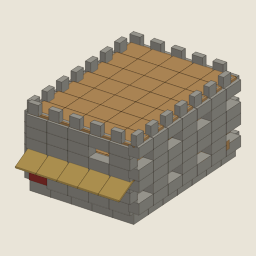
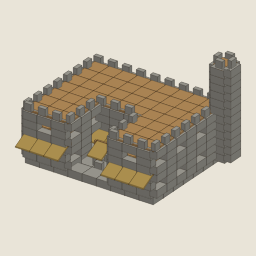
Blueprint lab: desert courtyards with a paved yard and a well, a tall stone tower on large desert buildings; review set rebuilt

Changed region(s): [[0.0625, 0.125, 0.9688, 0.875]]

diff --git a/tools/blueprint-lab/web/index.html b/tools/blueprint-lab/web/index.html
@@ -1227,7 +1227,7 @@ class Build {
   put(name, x, y, z, yaw = 0, extra) {
     if (!name) return;
     yaw = norm(yaw);
-    const key = `${name}|${x.toFixed(2)}|${y.toFixed(2)}|${z.toFixed(2)}|${Math.round(yaw) % 360}`;
+    const key = `${name}|${Math.round(x * 100)}|${Math.round(y * 100)}|${Math.round(z * 100)}|${Math.round(yaw) % 360}`; // rounded so -0.00 and 0.00 match
     if (this.keys.has(key)) return; // the same piece in the same place once only (porch eaves, meeting wings)
     this.keys.add(key);
     this.pieces.push({ name, x: +x.toFixed(3), y: +y.toFixed(3), z: +z.toFixed(3), q: quat(yaw), yaw, ...(extra || {}) });
@@ -1317,9 +1317,13 @@ function wingsFor(plan, W, D, R) {
       return [main, { cx: mid, cz: out / 2, W: D + out / 2, D: wD, alpha: 270 }];
     case 'cross':
       return [main, { cx: mid, cz: 0, W: D + out, D: wD, alpha: 270 }];
-    case 'U':
-      return [main, { cx: -(W - wD), cz: -out / 2 - 1, W: D + out / 2 + 1, D: wD, alpha: 270 },
-        { cx: W - wD, cz: -out / 2 - 1, W: D + out / 2 + 1, D: wD, alpha: 270 }];
+    case 'U': {
+      // wings at both ends with a yard of at least 4 m between them (the main wing is widened when it is too short)
+      const uD = Math.min(wD, 3), Wu = Math.max(W, 2 * uD + 3);
+      main.W = Wu;
+      return [main, { cx: -(Wu - uD), cz: -out / 2 - 1, W: D + out / 2 + 1, D: uD, alpha: 270 },
+        { cx: Wu - uD, cz: -out / 2 - 1, W: D + out / 2 + 1, D: uD, alpha: 270 }];
+    }
     default:
       return [main];
   }
@@ -1404,7 +1408,7 @@ function generate(req) {
   if (bz % 2 === 0 && roofKind !== 'flat') bz += 1; // a ridge over a bay centre
   if (plan === 'square') bx = bz = Math.max(bx, bz) % 2 ? Math.max(bx, bz) : Math.max(bx, bz) + 1;
   if (roofKind === 'hip' && bx < bz) bx = bz;
-  const W = bx, D = bz;
+  let W = bx; const D = bz;
   const storeys = T.storeys[stage];
   const SH = T.low ? 2 : T.tower ? 3 : (['longhouse', 'tavern', 'temple'].includes(type) || stage === 's3') ? 3 : 2;
   const flat = roofKind === 'flat';
@@ -1421,6 +1425,7 @@ function generate(req) {
     octagonDesign(b, K, C, { W: Math.max(3, Math.round((W + D) / 2)), F, SH, storeys, r, T, biome, stoneBase });
   } else {
     const wings = wingsFor(plan, W, D, R);
+    W = wings[0].W; // a U plan may widen the main wing
     const cells = cellsOf(wings);
     const edges = edgesOf(cells);
     const verts = vertsOf(edges);
@@ -1512,7 +1517,7 @@ function generate(req) {
       // where wings cross, keep the higher roof so the lower roof runs into the higher one
       const placed = new Set();
       for (const p of parts) {
-        const key = `${p.name}|${p.x.toFixed(2)}|${p.y.toFixed(2)}|${p.z.toFixed(2)}|${Math.round(p.yaw)}`;
+        const key = `${p.name}|${Math.round(p.x * 100)}|${Math.round(p.y * 100)}|${Math.round(p.z * 100)}|${Math.round(p.yaw) % 360}`;
         if (placed.has(key)) continue; // two wings can lay the same piece where they meet
         placed.add(key);
         const hidden = wings.some(o => o !== p.wing && inside(o, p.x, p.z, -0.2) && p.surf < surfaceAt(o, p.x, p.z, roofTop, r) - 0.25);
@@ -1536,6 +1541,28 @@ function generate(req) {
           b.put(framePole(K, C), x, F + 1, zf - 2);
         }
         for (const x of bays) b.put((biome === 'Meadows' || biome === 'Black Forest') ? K.roof26 : 'darkwood_roof', x, F + 2, zf - 1, 180);
+      }
+    }
+    // desert courtyard houses: a well in the yard of a U plan, a tall stone tower at a back corner of large ones
+    if (cultureKey === 'middle-eastern' && !T.tower) {
+      if (plan === 'U') {
+        // pave the yard between the wings
+        const zmin = wings[1].cz - wings[1].W;
+        const pave = K.stoneFloor || K.floor;
+        for (let x = -W + 1; x < W; x += 2) for (let z = zmin + 1; z < -D; z += 2)
+          if (!cells.has(`${x},${z}`)) b.put(pave, x, pave === 'stone_floor_2x2' ? -0.5 : 0, z);
+        const yz = Math.round((zmin - D) / 2);
+        const well = new Build(); wellDesign(well, K, biome, 's1');
+        for (const p of well.pieces) b.put(p.name, p.x, p.y, p.z + yz, p.yaw);
+      }
+      if (stage === 's3' || type === 'temple') {
+        const tx = W + 1, tz = D - 1, h = top + 6, stone = K.stoneWall || 'stone_wall_2x1';
+        for (let y = 0.5; y < h; y += 1) for (const [dx, dz, yaw] of [[0, -1, 0], [0, 1, 0], [-1, 0, 90], [1, 0, 90]])
+          if (!(y < F + 2 && dx === -1)) b.put(stone, tx + dx, y, tz + dz, yaw); // open on the house side at the bottom
+        b.put(K.floor, tx, h, tz);
+        for (const [dx, dz, yaw] of [[0, -1, 0], [0, 1, 0], [-1, 0, 90], [1, 0, 90]]) b.put(K.stoneBlock || 'stone_wall_1x1', tx + dx * 1.0, h + 0.5, tz + dz * 1.0, yaw);
+        b.put(K.ladder, tx, h - 1, tz, 0);
+        b.notes.push('Tall stone tower at a back corner, after the desert style.');
       }
     }
     if (T.dock) dockDesign(b, K, W, D, F, stage);

diff --git a/tools/blueprint-lab/lib/generate.js b/tools/blueprint-lab/lib/generate.js
@@ -27,7 +27,7 @@ class Build {
   put(name, x, y, z, yaw = 0, extra) {
     if (!name) return;
     yaw = norm(yaw);
-    const key = `${name}|${x.toFixed(2)}|${y.toFixed(2)}|${z.toFixed(2)}|${Math.round(yaw) % 360}`;
+    const key = `${name}|${Math.round(x * 100)}|${Math.round(y * 100)}|${Math.round(z * 100)}|${Math.round(yaw) % 360}`; // rounded so -0.00 and 0.00 match
     if (this.keys.has(key)) return; // the same piece in the same place once only (porch eaves, meeting wings)
     this.keys.add(key);
     this.pieces.push({ name, x: +x.toFixed(3), y: +y.toFixed(3), z: +z.toFixed(3), q: quat(yaw), yaw, ...(extra || {}) });
@@ -117,9 +117,13 @@ function wingsFor(plan, W, D, R) {
       return [main, { cx: mid, cz: out / 2, W: D + out / 2, D: wD, alpha: 270 }];
     case 'cross':
       return [main, { cx: mid, cz: 0, W: D + out, D: wD, alpha: 270 }];
-    case 'U':
-      return [main, { cx: -(W - wD), cz: -out / 2 - 1, W: D + out / 2 + 1, D: wD, alpha: 270 },
-        { cx: W - wD, cz: -out / 2 - 1, W: D + out / 2 + 1, D: wD, alpha: 270 }];
+    case 'U': {
+      // wings at both ends with a yard of at least 4 m between them (the main wing is widened when it is too short)
+      const uD = Math.min(wD, 3), Wu = Math.max(W, 2 * uD + 3);
+      main.W = Wu;
+      return [main, { cx: -(Wu - uD), cz: -out / 2 - 1, W: D + out / 2 + 1, D: uD, alpha: 270 },
+        { cx: Wu - uD, cz: -out / 2 - 1, W: D + out / 2 + 1, D: uD, alpha: 270 }];
+    }
     default:
       return [main];
   }
@@ -204,7 +208,7 @@ function generate(req) {
   if (bz % 2 === 0 && roofKind !== 'flat') bz += 1; // a ridge over a bay centre
   if (plan === 'square') bx = bz = Math.max(bx, bz) % 2 ? Math.max(bx, bz) : Math.max(bx, bz) + 1;
   if (roofKind === 'hip' && bx < bz) bx = bz;
-  const W = bx, D = bz;
+  let W = bx; const D = bz;
   const storeys = T.storeys[stage];
   const SH = T.low ? 2 : T.tower ? 3 : (['longhouse', 'tavern', 'temple'].includes(type) || stage === 's3') ? 3 : 2;
   const flat = roofKind === 'flat';
@@ -221,6 +225,7 @@ function generate(req) {
     octagonDesign(b, K, C, { W: Math.max(3, Math.round((W + D) / 2)), F, SH, storeys, r, T, biome, stoneBase });
   } else {
     const wings = wingsFor(plan, W, D, R);
+    W = wings[0].W; // a U plan may widen the main wing
     const cells = cellsOf(wings);
     const edges = edgesOf(cells);
     const verts = vertsOf(edges);
@@ -312,7 +317,7 @@ function generate(req) {
       // where wings cross, keep the higher roof so the lower roof runs into the higher one
       const placed = new Set();
       for (const p of parts) {
-        const key = `${p.name}|${p.x.toFixed(2)}|${p.y.toFixed(2)}|${p.z.toFixed(2)}|${Math.round(p.yaw)}`;
+        const key = `${p.name}|${Math.round(p.x * 100)}|${Math.round(p.y * 100)}|${Math.round(p.z * 100)}|${Math.round(p.yaw) % 360}`;
         if (placed.has(key)) continue; // two wings can lay the same piece where they meet
         placed.add(key);
         const hidden = wings.some(o => o !== p.wing && inside(o, p.x, p.z, -0.2) && p.surf < surfaceAt(o, p.x, p.z, roofTop, r) - 0.25);
@@ -336,6 +341,28 @@ function generate(req) {
           b.put(framePole(K, C), x, F + 1, zf - 2);
         }
         for (const x of bays) b.put((biome === 'Meadows' || biome === 'Black Forest') ? K.roof26 : 'darkwood_roof', x, F + 2, zf - 1, 180);
+      }
+    }
+    // desert courtyard houses: a well in the yard of a U plan, a tall stone tower at a back corner of large ones
+    if (cultureKey === 'middle-eastern' && !T.tower) {
+      if (plan === 'U') {
+        // pave the yard between the wings
+        const zmin = wings[1].cz - wings[1].W;
+        const pave = K.stoneFloor || K.floor;
+        for (let x = -W + 1; x < W; x += 2) for (let z = zmin + 1; z < -D; z += 2)
+          if (!cells.has(`${x},${z}`)) b.put(pave, x, pave === 'stone_floor_2x2' ? -0.5 : 0, z);
+        const yz = Math.round((zmin - D) / 2);
+        const well = new Build(); wellDesign(well, K, biome, 's1');
+        for (const p of well.pieces) b.put(p.name, p.x, p.y, p.z + yz, p.yaw);
+      }
+      if (stage === 's3' || type === 'temple') {
+        const tx = W + 1, tz = D - 1, h = top + 6, stone = K.stoneWall || 'stone_wall_2x1';
+        for (let y = 0.5; y < h; y += 1) for (const [dx, dz, yaw] of [[0, -1, 0], [0, 1, 0], [-1, 0, 90], [1, 0, 90]])
+          if (!(y < F + 2 && dx === -1)) b.put(stone, tx + dx, y, tz + dz, yaw); // open on the house side at the bottom
+        b.put(K.floor, tx, h, tz);
+        for (const [dx, dz, yaw] of [[0, -1, 0], [0, 1, 0], [-1, 0, 90], [1, 0, 90]]) b.put(K.stoneBlock || 'stone_wall_1x1', tx + dx * 1.0, h + 0.5, tz + dz * 1.0, yaw);
+        b.put(K.ladder, tx, h - 1, tz, 0);
+        b.notes.push('Tall stone tower at a back corner, after the desert style.');
       }
     }
     if (T.dock) dockDesign(b, K, W, D, F, stage);
